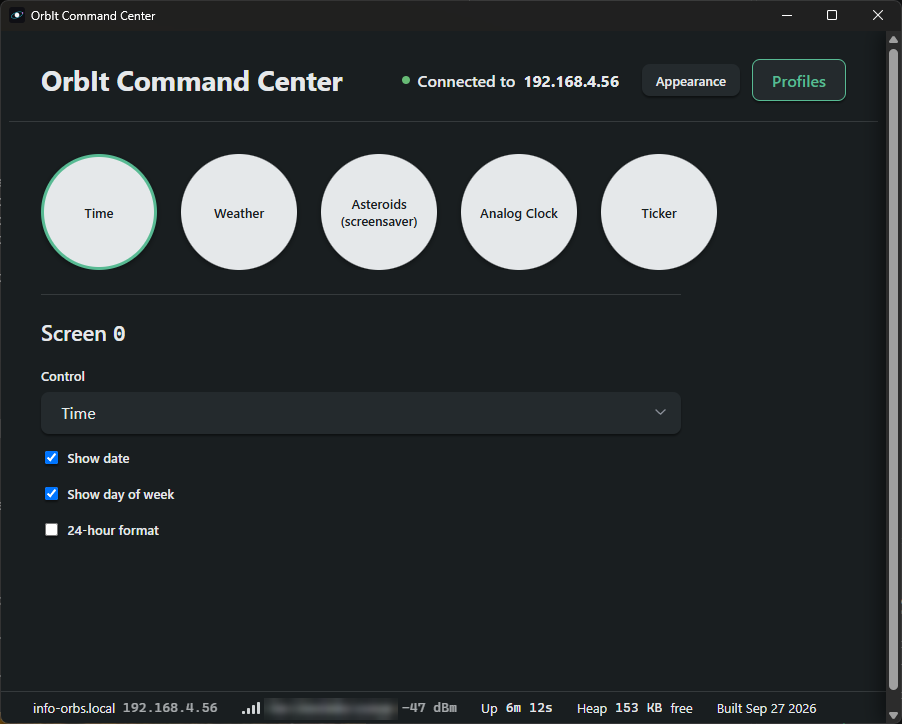
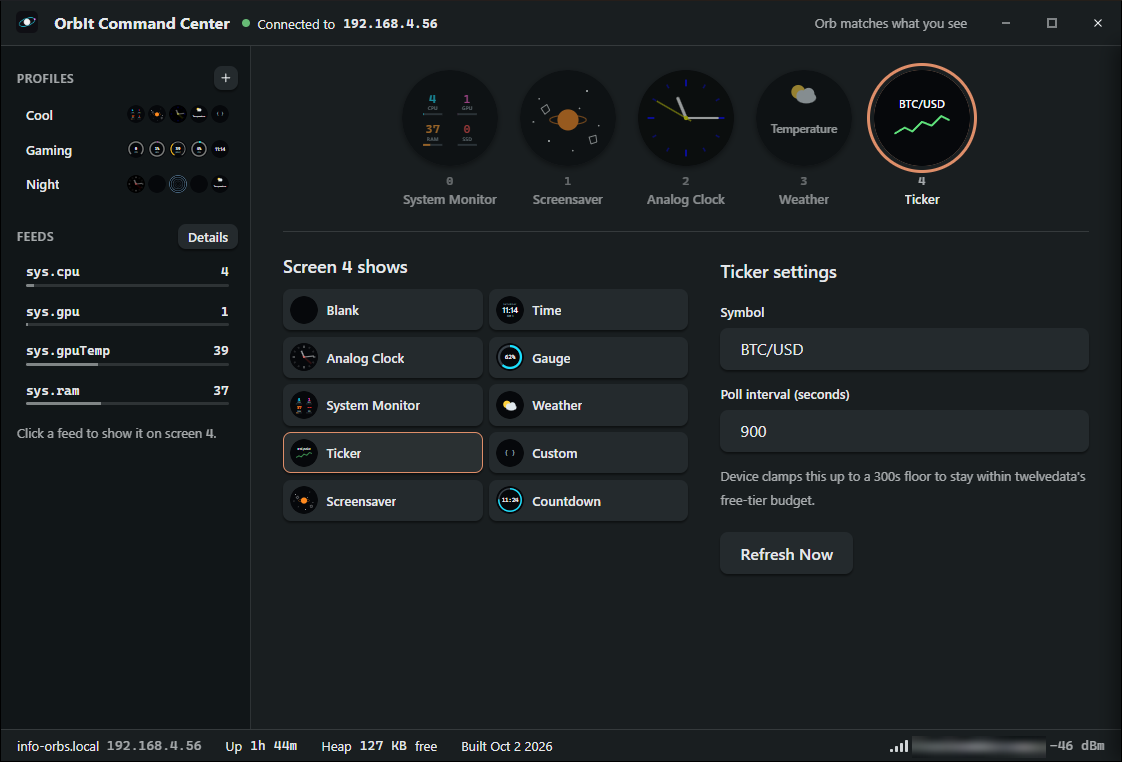
Update the README screenshot for the workbench interface

diff --git a/README.md b/README.md
@@ -22,7 +22,7 @@ profiles you can flip between, and a tray-resident background service that
 pushes live CPU/GPU/RAM stats to a screen automatically.
 
 <p align="center">
-  <img src="OrbitCommandCenter.png" alt="OrbIt Command Center connected to an orb: five round screen tiles (Time, Weather, Asteroids, Analog Clock, Ticker), the Time screen's settings below, and the device status bar along the bottom" width="720" />
+  <img src="OrbitCommandCenter.png" alt="OrbIt Command Center connected to an orb: a rail on the left with saved profiles and live feeds, five round screen tiles previewing what each orb screen shows, the selected screen's control picker and settings below, and the device status bar along the bottom" width="720" />
 </p>
 
 > **Note:** `OrbItWidget` is a custom firmware fork, not (yet) part of
